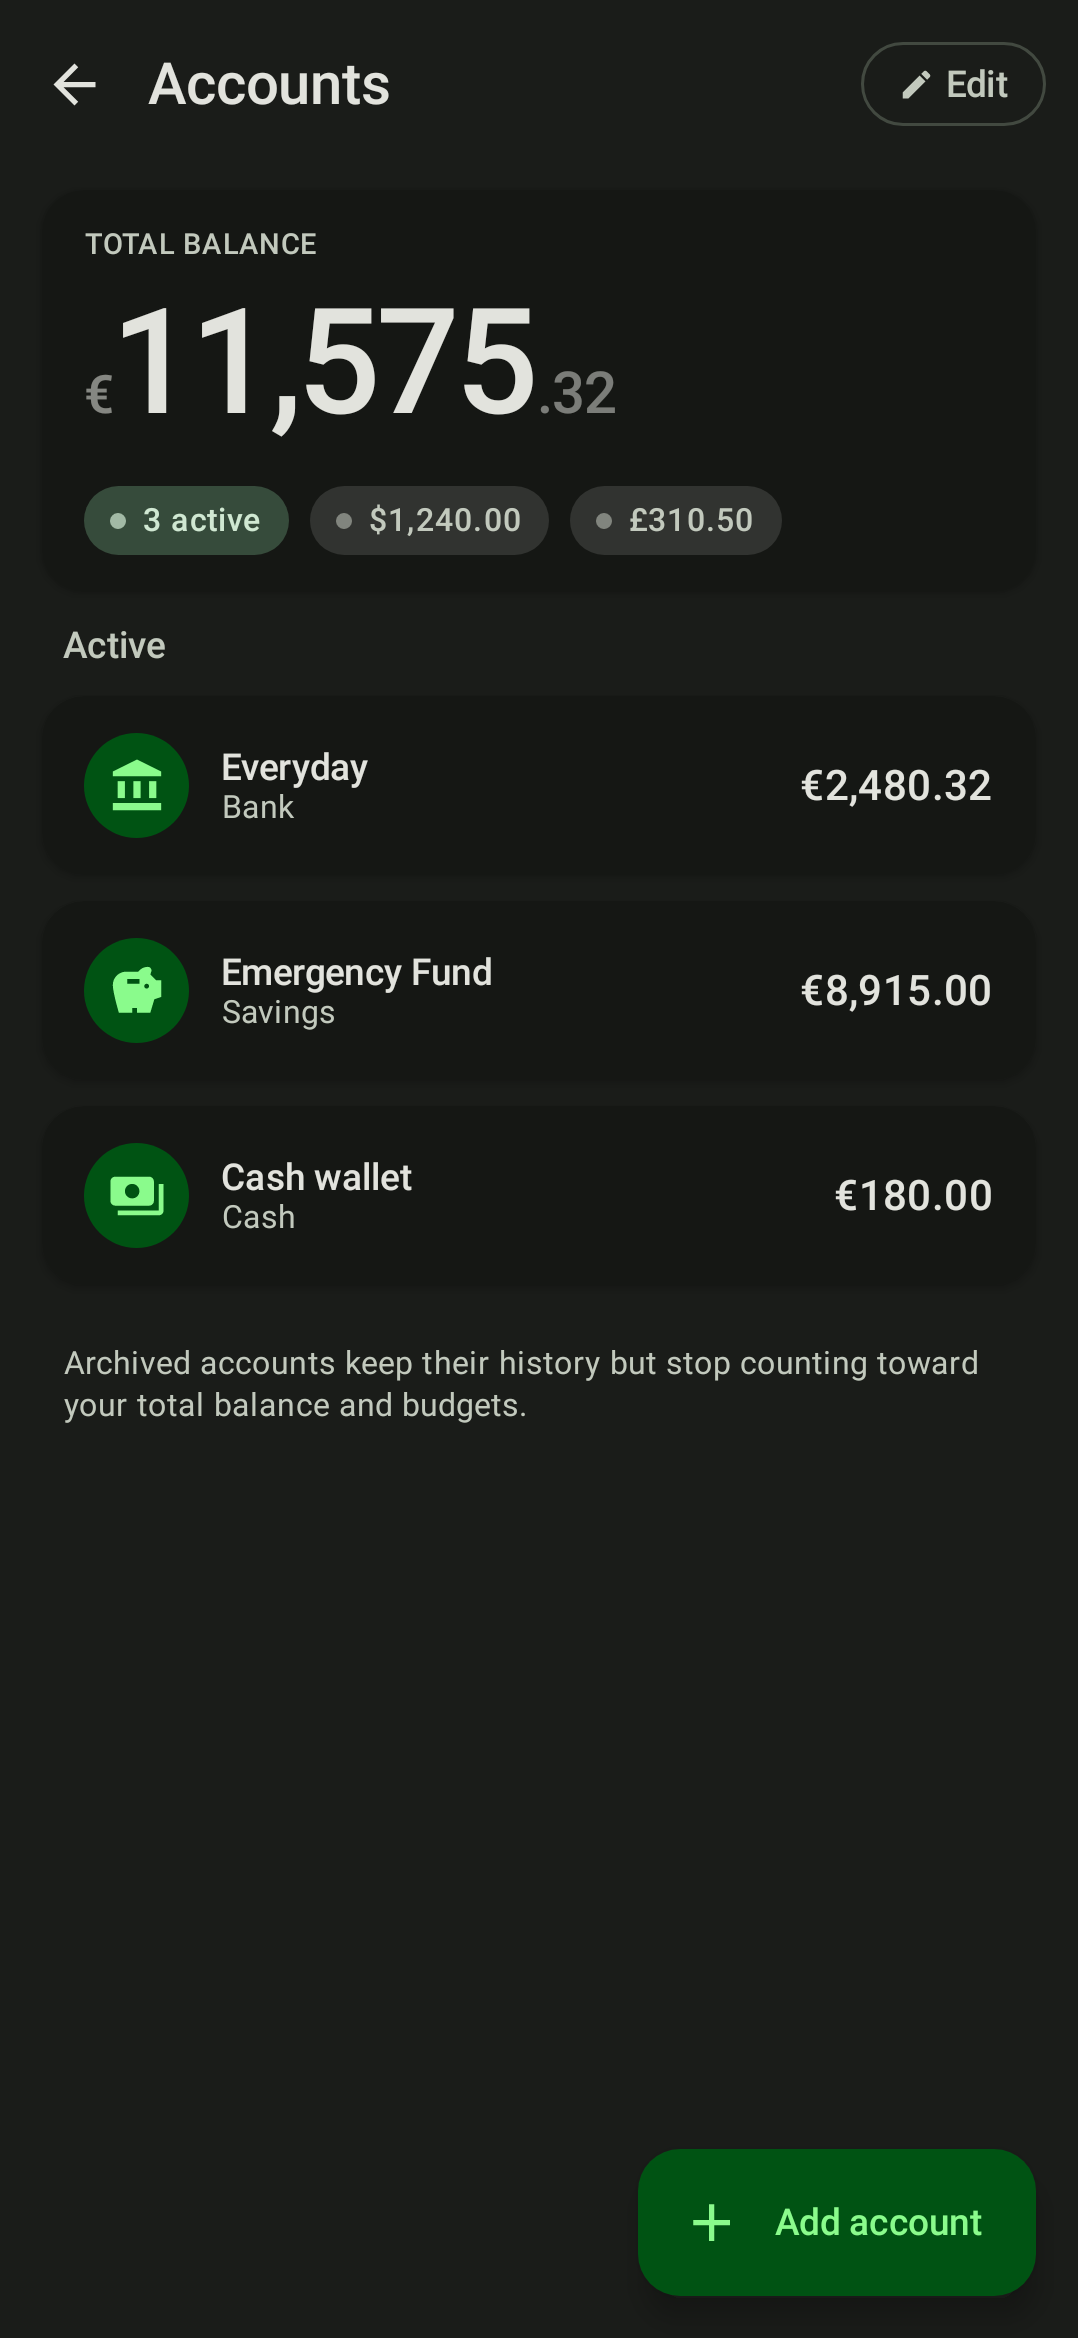
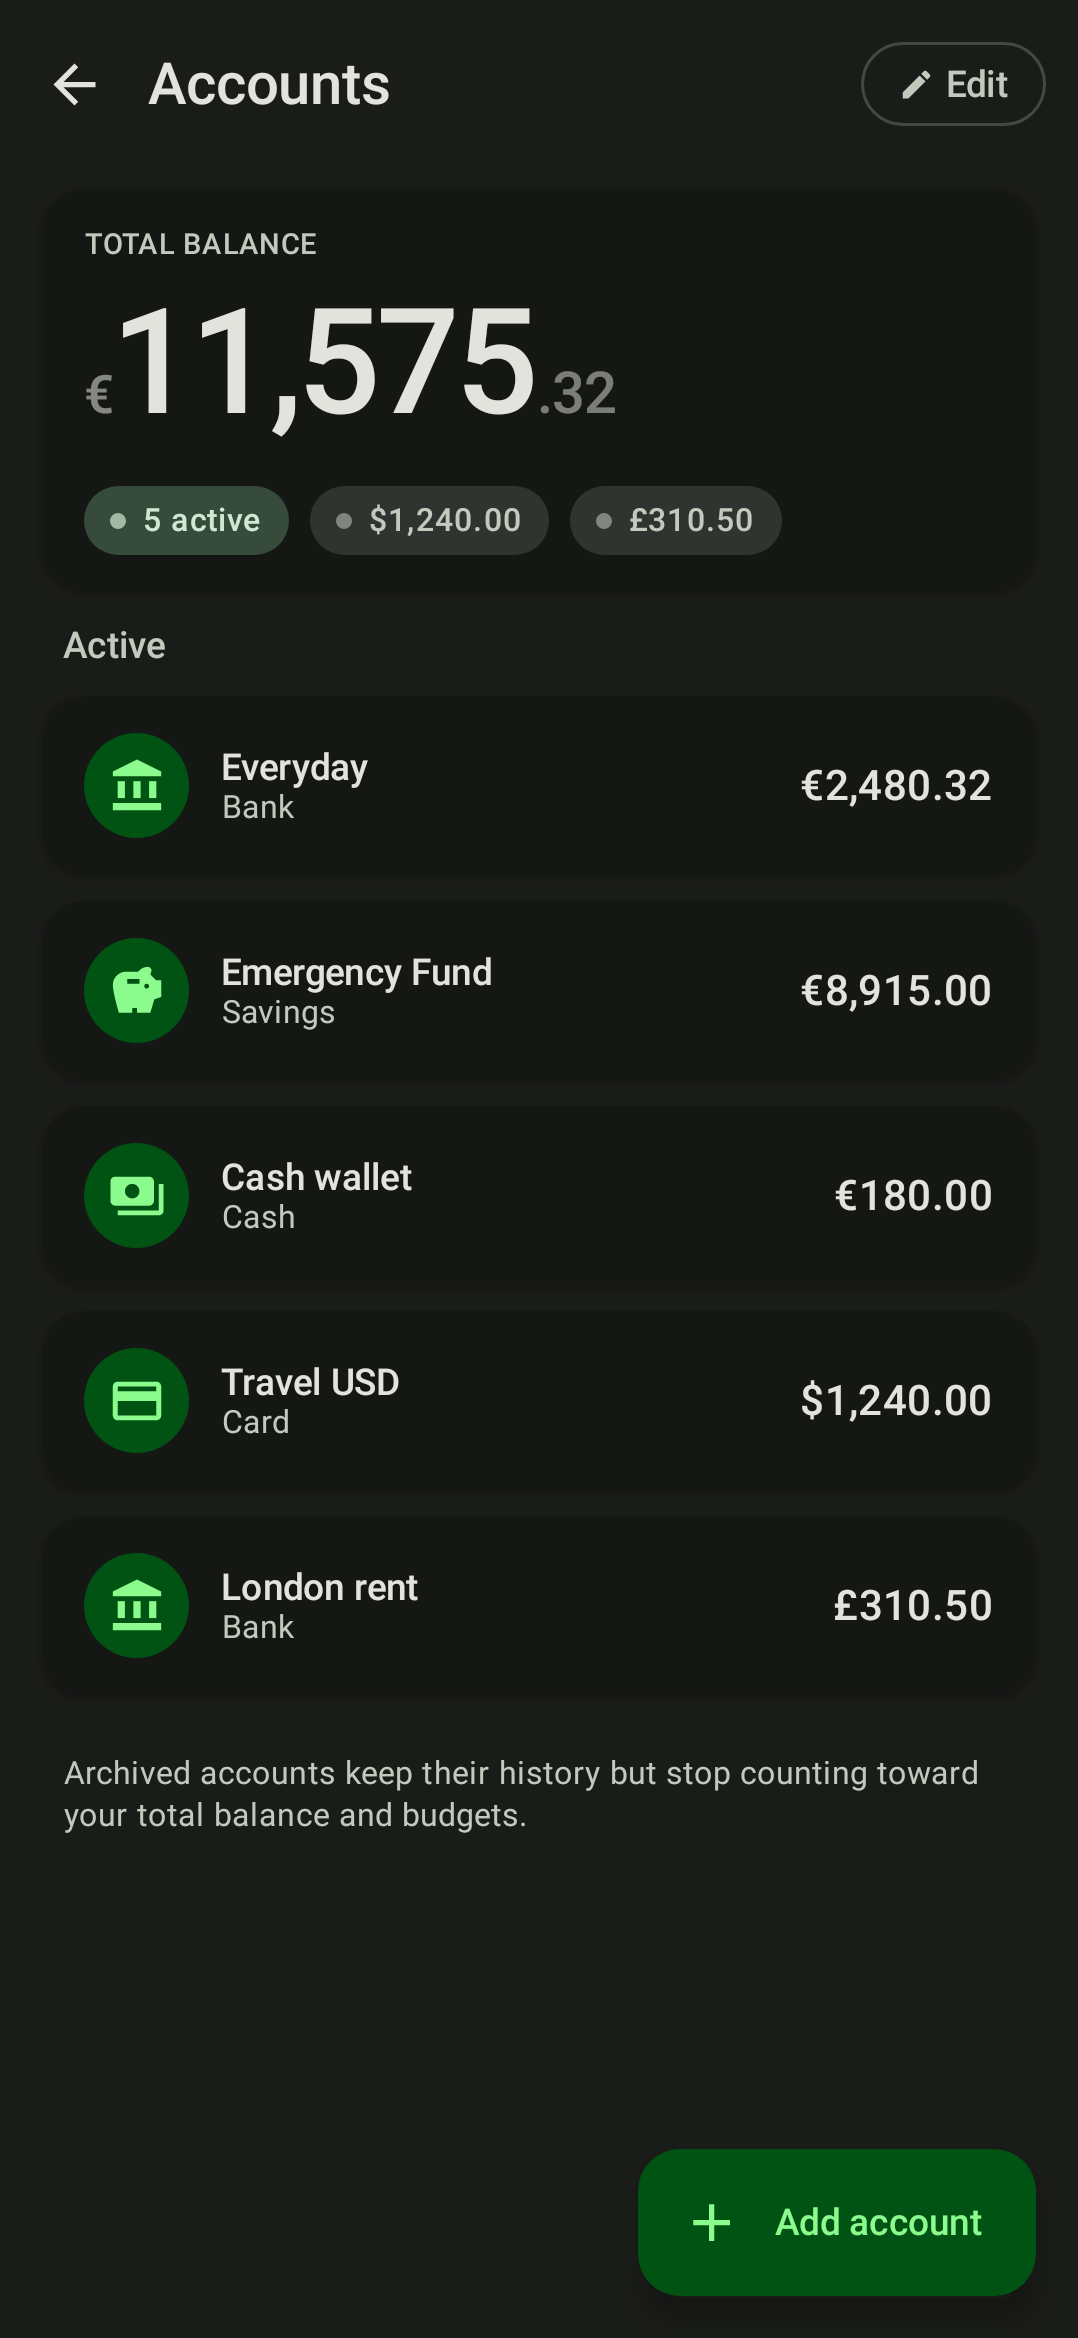
test: keep the screenshot states self-consistent
Review follow-ups on the new captures. The transaction form pinned the JVM's
default time zone and never gave it back, so any later date-sensitive test in
that source set would have inherited UTC — it now restores the host zone in
`@After`.

Two references also recorded states the screens cannot reach: the account list
showed dollar and pound totals with only euro accounts listed, and the category
details income frame borrowed the expense trend, so its hero read €3,200 for a
month whose bar was labelled €168.55. Both now carry data that agrees with
itself, which is the whole point of a frame you review by eye.

diff --git a/feature/account/src/androidHostTest/kotlin/com/georgeci/moneysurfer/feature/account/screenshot/AccountsManageScreenshotTest.kt b/feature/account/src/androidHostTest/kotlin/com/georgeci/moneysurfer/feature/account/screenshot/AccountsManageScreenshotTest.kt
@@ -1,6 +1,8 @@
 package com.georgeci.moneysurfer.feature.account.screenshot
 
 import com.georgeci.moneysurfer.domain.primitives.AccountId
+import com.georgeci.moneysurfer.domain.primitives.AccountType
+import com.georgeci.moneysurfer.feature.account.manage.AccountManageUi
 import com.georgeci.moneysurfer.feature.account.manage.AccountsManageContent
 import com.georgeci.moneysurfer.feature.account.manage.AccountsManagePendingDelete
 import com.georgeci.moneysurfer.feature.account.manage.AccountsManageState
@@ -59,13 +61,34 @@ class AccountsManageScreenshotTest {
         )
     }
 
-    /** Accounts in more than one currency: the minor totals sit beside the headline, unconverted. */
+    /**
+     * Accounts in more than one currency: the minor totals sit beside the headline, unconverted.
+     *
+     * The two extra accounts are what those totals are *of* — the screen derives the row from the
+     * accounts it lists, so a frame with a dollar total and no dollar account would record a state
+     * the screen cannot reach.
+     */
     @Test
     fun accountsManageMultiCurrency() = captureFullScreen("accounts_manage_multi_currency") {
         AccountsManageContent(
             state = AccountsManageState.Content(
                 isEditing = false,
-                activeAccounts = PreviewActiveAccountsFull,
+                activeAccounts = PreviewActiveAccountsFull + listOf(
+                    AccountManageUi(
+                        id = AccountId("screenshot-acc-usd"),
+                        name = "Travel USD",
+                        type = AccountType.CARD,
+                        formattedBalance = "$1,240.00",
+                        currency = "USD",
+                    ),
+                    AccountManageUi(
+                        id = AccountId("screenshot-acc-gbp"),
+                        name = "London rent",
+                        type = AccountType.BANK,
+                        formattedBalance = "£310.50",
+                        currency = "GBP",
+                    ),
+                ),
                 archivedAccounts = emptyList(),
                 formattedTotal = "€11,575.32",
                 otherCurrencyTotals = listOf("$1,240.00", "£310.50"),

diff --git a/feature/category/src/androidHostTest/kotlin/com/georgeci/moneysurfer/feature/category/screenshot/CategoryDetailsScreenshotTest.kt b/feature/category/src/androidHostTest/kotlin/com/georgeci/moneysurfer/feature/category/screenshot/CategoryDetailsScreenshotTest.kt
@@ -55,7 +55,13 @@ class CategoryDetailsScreenshotTest {
         )
     }
 
-    /** Income reads the same numbers the other way round — worth a frame for the tint alone. */
+    /**
+     * Income reads the same numbers the other way round — worth a frame for the tint alone.
+     *
+     * Its own months rather than the expense ones: the hero is the latest month's total and the
+     * stats are derived from the same series, so borrowing Dining's trend would record a frame
+     * whose hero, average and bars contradict each other.
+     */
     @Test
     fun categoryDetailsIncome() = captureFullScreen("category_details_income") {
         CategoryDetailsContent(
@@ -68,13 +74,21 @@ class CategoryDetailsScreenshotTest {
                 isLeaf = true,
                 subcategories = emptyList(),
                 formattedTotal = "€3,200.00",
-                formattedAverage = "€3,200.00",
+                formattedAverage = "€3,120.00",
                 formattedPerTransaction = "€3,200.00",
                 transactionCount = 1,
+                months = listOf(
+                    CategoryTrendMonthUi(YearMonth(2025, 11), 300_000, "€3,000.00"),
+                    CategoryTrendMonthUi(YearMonth(2025, 12), 320_000, "€3,200.00"),
+                    CategoryTrendMonthUi(YearMonth(2026, 1), 300_000, "€3,000.00"),
+                    CategoryTrendMonthUi(YearMonth(2026, 2), 300_000, "€3,000.00"),
+                    CategoryTrendMonthUi(YearMonth(2026, 3), 302_000, "€3,020.00"),
+                    CategoryTrendMonthUi(YearMonth(2026, 4), 320_000, "€3,200.00"),
+                ),
                 transactions = listOf(
                     CategoryTransactionUi(
                         id = TransactionId("screenshot-tx-2"),
-                        title = "March payroll",
+                        title = "April payroll",
                         formattedAmount = "€3,200.00",
                         isExpense = false,
                         categoryHueSeed = "screenshot-cat-salary",

diff --git a/feature/transaction/src/androidHostTest/kotlin/com/georgeci/moneysurfer/feature/transaction/screenshot/TransactionCreationScreenshotTest.kt b/feature/transaction/src/androidHostTest/kotlin/com/georgeci/moneysurfer/feature/transaction/screenshot/TransactionCreationScreenshotTest.kt
@@ -17,6 +17,7 @@ import com.georgeci.moneysurfer.feature.transaction.creation.TransactionTypeUi
 import com.georgeci.moneysurfer.screenshot.ScreenshotQualifiers
 import com.georgeci.moneysurfer.screenshot.ScreenshotSdk
 import com.georgeci.moneysurfer.screenshot.captureFullScreen
+import org.junit.After
 import org.junit.Before
 import org.junit.Test
 import org.junit.runner.RunWith
@@ -42,15 +43,26 @@ import kotlin.time.Instant
 @Config(sdk = [ScreenshotSdk], qualifiers = ScreenshotQualifiers)
 class TransactionCreationScreenshotTest {
 
+    private lateinit var hostTimeZone: TimeZone
+
     /**
      * The date row formats [OperationTimestamp] in the *host's* zone, so a machine east of UTC+12
      * would render the following day and fail against a reference recorded on CI. Pinning the
-     * default zone makes the frame the same everywhere; the JVM is the test's own, so nothing
-     * outside this suite sees it.
+     * default zone makes the frame the same everywhere.
+     *
+     * Restored in [restoreTimeZone] rather than left pinned: the default is JVM-global and the
+     * whole source set shares one test JVM, so a later date-sensitive test would otherwise inherit
+     * UTC and pass for a reason that has nothing to do with it.
      */
     @Before
     fun pinTimeZone() {
+        hostTimeZone = TimeZone.getDefault()
         TimeZone.setDefault(TimeZone.getTimeZone("UTC"))
+    }
+
+    @After
+    fun restoreTimeZone() {
+        TimeZone.setDefault(hostTimeZone)
     }
 
     @Test
@@ -67,7 +79,6 @@ class TransactionCreationScreenshotTest {
                 note = "",
                 selectedAccount = null,
                 selectedCategory = null,
-                timestamp = OperationTimestamp,
             ),
             onEvent = {},
         )

diff --git a/feature/account/src/androidHostTest/kotlin/com/georgeci/moneysurfer/feature/account/screenshot/AccountDetailsScreenshotTest.kt b/feature/account/src/androidHostTest/kotlin/com/georgeci/moneysurfer/feature/account/screenshot/AccountDetailsScreenshotTest.kt
@@ -54,7 +54,7 @@ class AccountDetailsScreenshotTest {
                 formattedIncome = "€0.00",
                 formattedExpenses = "€0.00",
                 chart = AccountBalanceChartUi(
-                    points = List(ChartPointCount) { it.toFloat() to 0f },
+                    points = List(ChartBalances.size) { it.toFloat() to 0f },
                     formattedDelta = "€0.00",
                     isDeltaNegative = false,
                 ),
@@ -118,7 +118,5 @@ class AccountDetailsScreenshotTest {
             2231f, 2288f, 2262f, 2240f, 2310f, 2295f, 2352f, 2330f, 2308f, 2374f,
             2360f, 2412f, 2390f, 2368f, 2430f, 2415f, 2462f, 2441f, 2470f, 2480f,
         )
-
-        val ChartPointCount = ChartBalances.size
     }
 }
